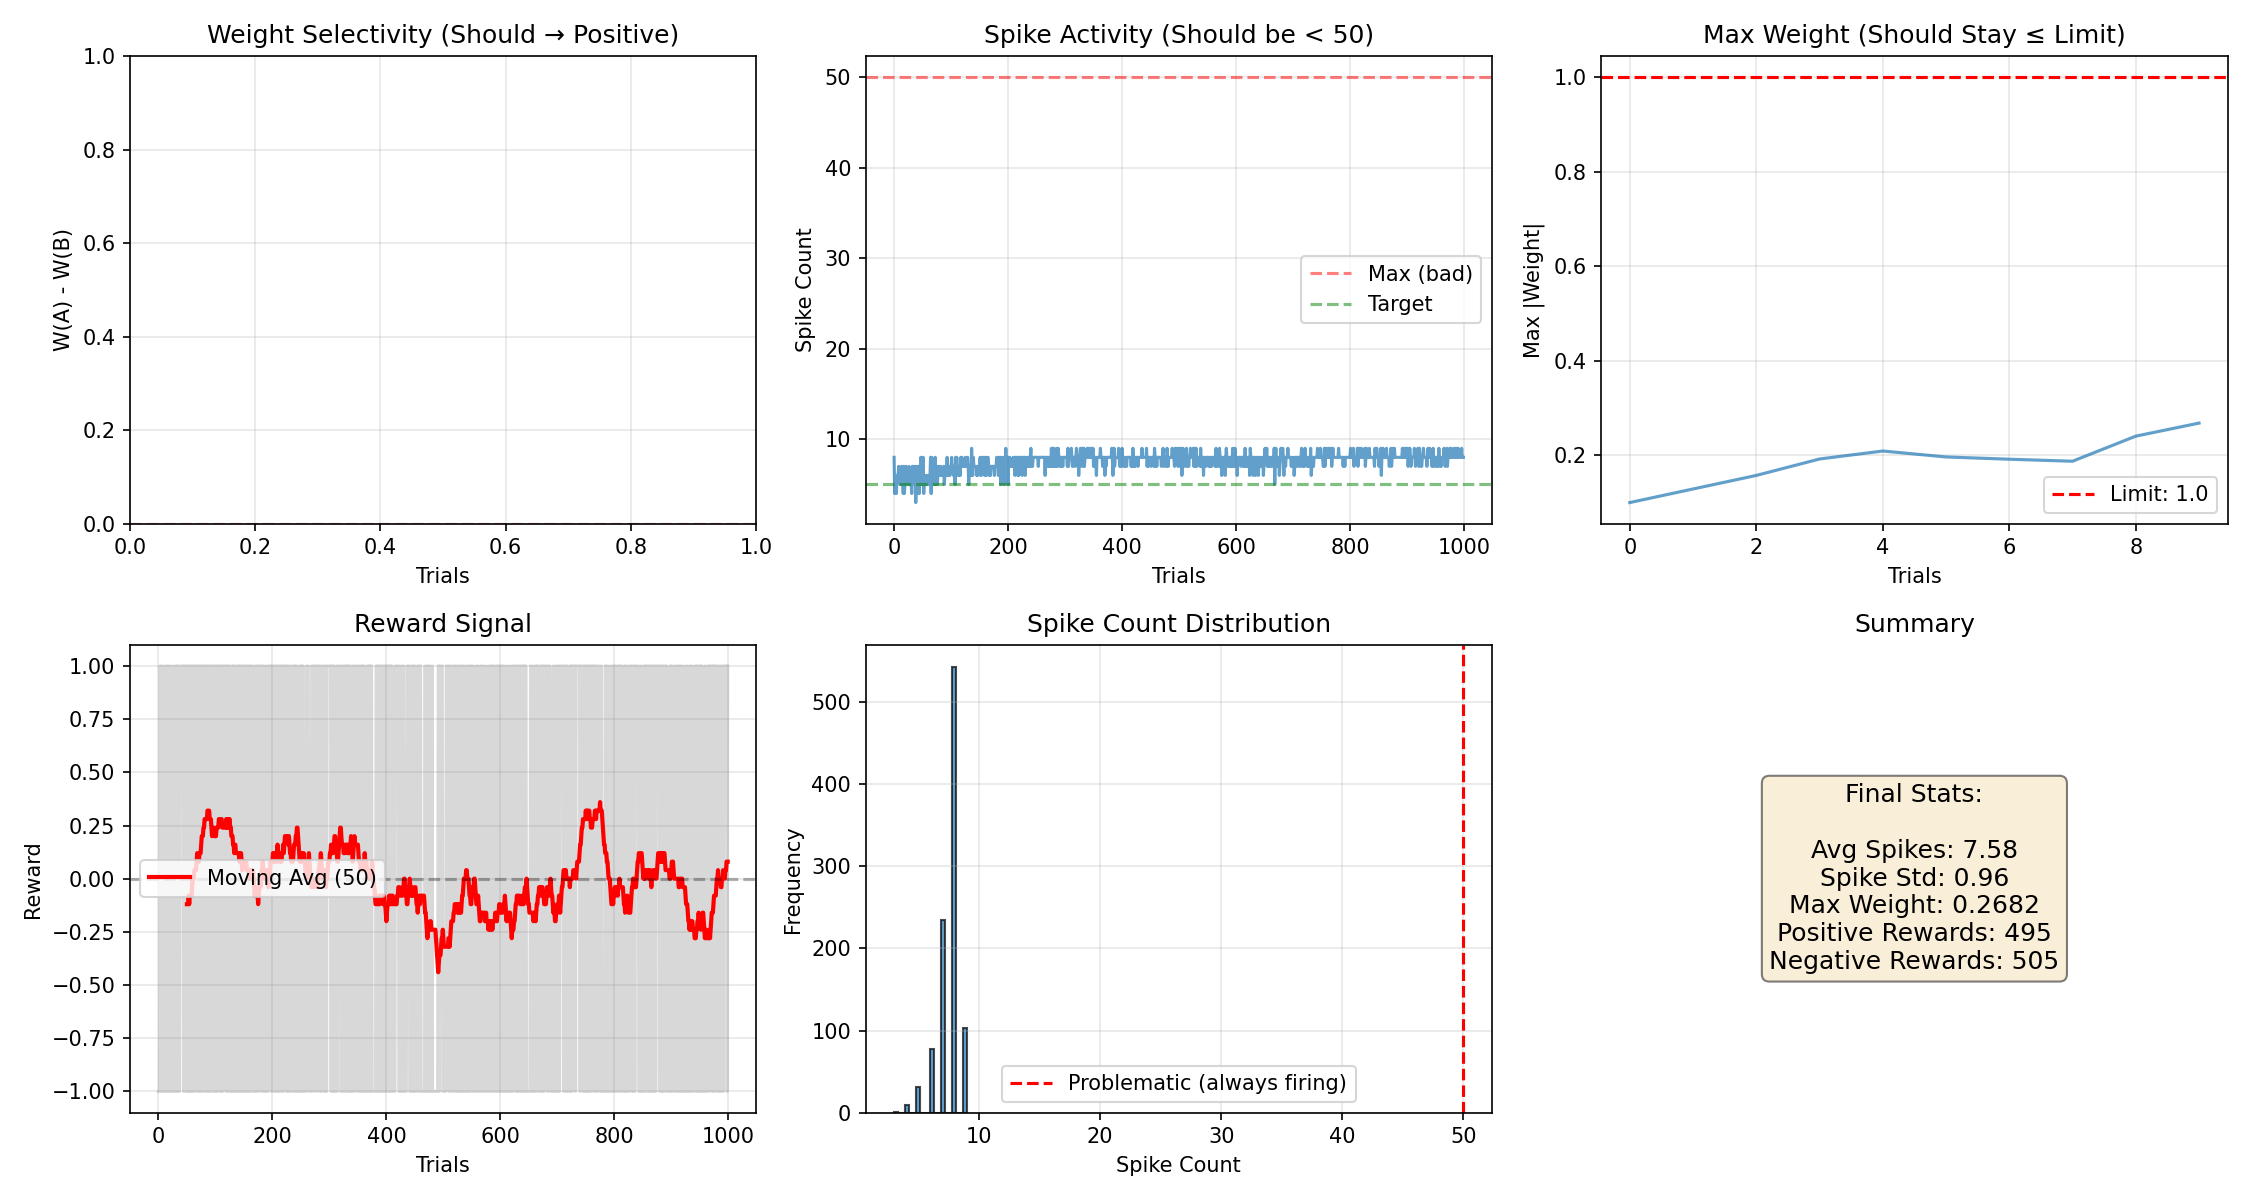
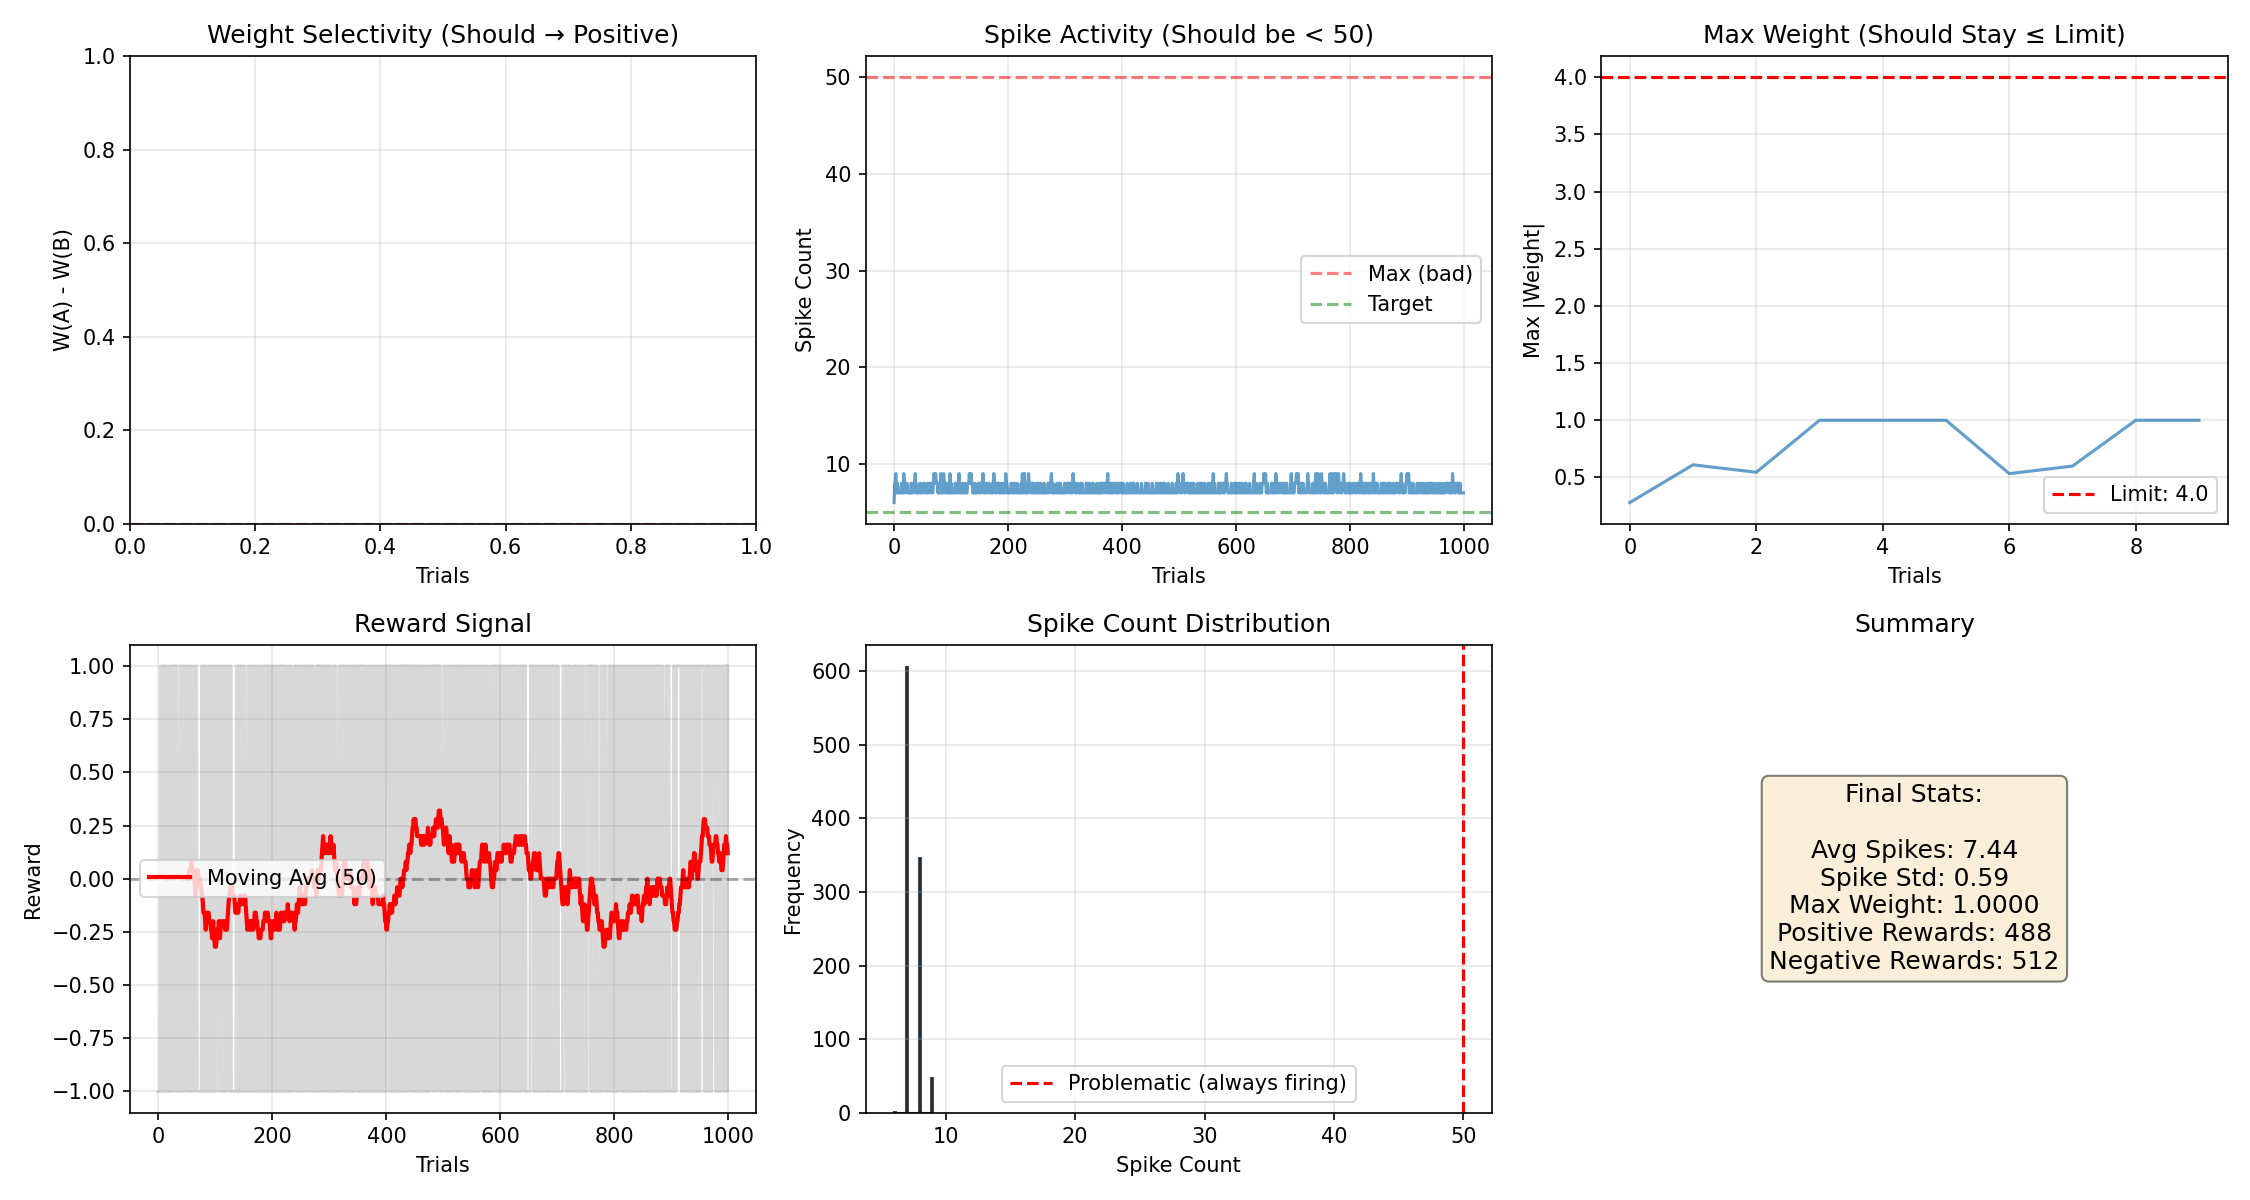
SNN

diff --git a/deep_pavlov.py b/deep_pavlov.py
@@ -10,20 +10,18 @@ from CNS.mechanisms.snn_synapse import Synapse
 def test_pavlov_unified():
     print("開始巴甫洛夫測試(Deep)...")
 
-    n_neurons1 = 512
-    n_neurons2 = 256
-    n_neurons3 = 128
+    n_neurons1 = 2048
+    n_neurons2 = 1024
+    n_neurons3 = 512
     decision_neuron_idx = 0
     n_steps = 1000
     device = torch.device("cuda" if torch.cuda.is_available() else "cpu")
     save_path = "result_unified.png"
 
     input_gain = 10.0
-    noise_level = 5.0
-    learning_rate = 0.0001
-    max_weight = 1.0
-
-    bridge_gain = 10.0
+    noise_level = 10.0
+    learning_rate = 0.001
+    max_weight = 4.0
 
     dopamine = DopamineSystem(dt=1.0, base_level=0.1)
 
@@ -31,34 +29,42 @@ def test_pavlov_unified():
     layer2 = IzhikevichLayer(n_neurons2)
     layer3 = IzhikevichLayer(n_neurons3)
 
-    layer1.reset_state(batch_size=1, device=device)
-    layer2.reset_state(batch_size=1, device=device)
-    layer3.reset_state(batch_size=1, device=device)
-
-    layer1.to(device)
-    layer2.to(device)
-    layer3.to(device)
-
     layer1_recurrent = Synapse(layer=layer1)
     layer2_recurrent = Synapse(layer=layer2)
     layer3_recurrent = Synapse(layer=layer3)
     bridge1_2 = Synapse(pre_layer=layer1, post_layer=layer2)
     bridge2_3 = Synapse(pre_layer=layer2, post_layer=layer3)
+
+    layer1.to(device)
+    layer2.to(device)
+    layer3.to(device)
     layer1_recurrent.to(device)
     layer2_recurrent.to(device)
     layer3_recurrent.to(device)
     bridge1_2.to(device)
     bridge2_3.to(device)
 
+    layer1.synapse = layer1_recurrent
+    layer2.synapse = layer2_recurrent
+    layer3.synapse = layer3_recurrent
+
+    layer1.reset_state(batch_size=1, device=device)
+    layer2.reset_state(batch_size=1, device=device)
+    layer3.reset_state(batch_size=1, device=device)
+    layer1_recurrent.reset_state(batch_size=1, device=device)
+    layer2_recurrent.reset_state(batch_size=1, device=device)
+    layer3_recurrent.reset_state(batch_size=1, device=device)
+    bridge1_2.reset_state(batch_size=1, device=device)
+    bridge2_3.reset_state(batch_size=1, device=device)
+
     opt_l1_recurrent = ThreeFactorOptimizer(
         layer=layer1,
-        n_neurons=n_neurons1,
+        synapse=layer1_recurrent,
         dopamine=dopamine,
         lr=learning_rate,
         max_weight=max_weight,
     )
 
-    # --- B. 訓練 Layer 1 -> Layer 2 的連接 (Feedforward) ---
     opt_bridge1_2 = ThreeFactorOptimizer(
         dopamine=dopamine,
         pre_layer=layer1,
@@ -68,15 +74,14 @@ def test_pavlov_unified():
         max_weight=max_weight,
     )
 
-    # --- C. 訓練 Layer 2 的內部循環 (Recurrent) ---
     opt_l2_recurrent = ThreeFactorOptimizer(
         layer=layer2,
+        synapse=layer2_recurrent,
         dopamine=dopamine,
         lr=learning_rate,
         max_weight=max_weight,
     )
 
-    # --- D. 訓練 Layer 2 -> Layer 3 的連接 (Feedforward) ---
     opt_bridge2_3 = ThreeFactorOptimizer(
         dopamine=dopamine,
         pre_layer=layer2,
@@ -86,21 +91,13 @@ def test_pavlov_unified():
         max_weight=max_weight,
     )
 
-    # --- E. 訓練 Layer 3 的內部循環 (Recurrent) ---
     opt_l3_recurrent = ThreeFactorOptimizer(
         layer=layer3,
+        synapse=layer3_recurrent,
         dopamine=dopamine,
         lr=learning_rate,
         max_weight=max_weight,
     )
-
-    try:
-        layer1 = torch.compile(layer1)
-        layer2 = torch.compile(layer2)
-        layer3 = torch.compile(layer3)
-        print("✅ 已啟用 torch.compile 加速")
-    except Exception as e:
-        print("⚠ 無法啟用 torch.compile，將使用一般模式:", e)
 
     pattern_A_mask = torch.zeros(n_neurons1)
     pattern_A_mask[:25] = 1.0
@@ -138,20 +135,17 @@ def test_pavlov_unified():
             spikes3, calcium3 = layer3(
                 input_current_3, neuromodulation_deltas=neuron_deltas
             )
-
+            opt_l1_recurrent.step(modulation_deltas=synapse_deltas)
+            opt_bridge1_2.step(modulation_deltas=synapse_deltas)
+            opt_l2_recurrent.step(modulation_deltas=synapse_deltas)
+            opt_bridge2_3.step(modulation_deltas=synapse_deltas)
+            opt_l3_recurrent.step(modulation_deltas=synapse_deltas)
             total_decision_spikes += spikes3[:, decision_neuron_idx].sum()
-
-        reward = compute_reward(total_decision_spikes, is_pattern_A)
-
-        dopamine.update(influx=reward)
+            reward = compute_reward(total_decision_spikes, is_pattern_A)
+            dopamine.update(influx=reward)
 
         spike_counts.append(total_decision_spikes.item())
         rewards_history.append(reward)
-        opt_l1_recurrent.step(modulation_deltas=synapse_deltas)
-        opt_bridge1_2.step(modulation_deltas=synapse_deltas)
-        opt_l2_recurrent.step(modulation_deltas=synapse_deltas)
-        opt_bridge2_3.step(modulation_deltas=synapse_deltas)
-        opt_l3_recurrent.step(modulation_deltas=synapse_deltas)
 
         if trial % 100 == 0:
             v_mean = layer2.v.mean().item()

diff --git a/CNS/mechanisms/snn_synapse.py b/CNS/mechanisms/snn_synapse.py
@@ -8,9 +8,9 @@ class Synapse(nn.Module):
                  layer=None,
                  pre_layer=None,
                  post_layer=None,
-                 density=0.1,
+                 density=0.3,
                  dt=1.0, 
-                 tau_g=0.5, 
+                 tau_g=5.0, 
                  max_delay_ms=20,
                  max_weight=1.0,
                  enable_plasticity=True,
@@ -18,17 +18,19 @@ class Synapse(nn.Module):
                  sprouting_prob=0.01
                  ):
         super().__init__()
-        self.layer = layer
-        self.n_neurons = layer.n_neurons
-        self.pre_layer =  pre_layer if pre_layer is not None else self.layer
-        self.post_layer = post_layer if post_layer is not None else self.layer
+        _layer = layer
+        _pre = pre_layer if pre_layer is not None else _layer
+        _post = post_layer if post_layer is not None else _layer
 
-        self.n_pre = self.pre_layer.n_neurons
-        self.n_post = self.post_layer.n_neurons
+        if _pre is None or _post is None:
+             raise ValueError("Synapse 初始化失敗：必須提供 layer 或 pre_layer/post_layer")
+
+        self.n_pre = _pre.n_neurons
+        self.n_post = _post.n_neurons
+        
+        self.register_buffer('neuron_type', _pre.neuron_type.clone())
 
         self.max_weight = max_weight
-
-        self.register_buffer('neuron_type', self.pre_layer.neuron_type.clone())
 
         self.weight = nn.Parameter(torch.empty(self.n_post, self.n_pre))
         nn.init.xavier_uniform_(self.weight)
@@ -51,12 +53,14 @@ class Synapse(nn.Module):
         self.eneable_plasticity = enable_plasticity
         self.pruning_prob = sprouting_prob
         self.pruning_threshold = pruning_threshold
+        self.target_density = density
 
         self.I = None
 
         self.enforce_dale_principle()
 
     def reset_state(self, batch_size, device):
+        self.g = torch.zeros(batch_size, self.n_post, device=device)
         self.spike_buffer = torch.zeros(
             batch_size, self.n_pre, self.max_delay_steps, device=device
         )
@@ -83,13 +87,13 @@ class Synapse(nn.Module):
                     empty_indices = torch.nonzero(self.mask == 0, as_tuple=False)
 
                     if empty_indices.size(0) > n_to_sprout:
-                        idx = torch.randperm(empty_indices(0))[:n_to_sprout]
+                        idx = torch.randperm(empty_indices.size(0))[:n_to_sprout]
                         new_conns = empty_indices[idx]
 
                         rows = new_conns[:, 0]
                         cols = new_conns[:, 1]
 
-                        current_types = self.pre_neuron_type[cols]
+                        current_types = self.neuron_type[cols]
 
                         base_val = 0.01 * self.max_weight
                         noise = torch.rand(n_to_sprout, device=self.weight.device) * 0.005
@@ -123,6 +127,7 @@ class Synapse(nn.Module):
         g_influx = torch.matmul(delayed_spikes, effective_weight.T)
 
         self.g = self.g * self.decay + g_influx
+        self.g = self.g.detach()
 
         I_total = torch.zeros_like(v_post)
 
@@ -135,6 +140,8 @@ class Synapse(nn.Module):
             I_total[inh_mask] = (-self.g[inh_mask]) * (-80.0 - v_post[inh_mask])
 
         self.I = I_total
+
+        self.I = self.I.detach()
         return self.I
     
     def enforce_dale_principle(self):

diff --git a/CNS/mechanisms/snn_network.py b/CNS/mechanisms/snn_network.py
@@ -1,12 +1,14 @@
 import torch
 import torch.nn as nn
 import numpy as np
+from CNS.mechanisms.snn_synapse import Synapse 
 
 
 class IzhikevichLayer(nn.Module):
     def __init__(
         self,
         n_neurons,
+        synapse=None,
         exc_ratio=0.8,
         a_exc=0.02,
         b_exc=0.2,
@@ -78,6 +80,8 @@ class IzhikevichLayer(nn.Module):
 
         self.refractory_counter = None
 
+        self.synapse = synapse
+
     def reset_state(self, batch_size, device):
         self.v = torch.ones(batch_size, self.n_neurons).to(device) * -65.0
         self.u = self.v * self.b
@@ -87,12 +91,12 @@ class IzhikevichLayer(nn.Module):
         )
         self.post_spike = torch.zeros(batch_size, self.n_neurons).to(device)
         self.pre_spike = torch.zeros(batch_size, self.n_neurons).to(device)
-
+        
     def forward(self, total_input_current, neuromodulation_deltas=None):
         if self.v is None:
             self.reset_state(total_input_current.shape[0], total_input_current.device)
 
-        current_bias = 0.0
+        current_bias = 10.0
         current_d = self.d
         current_b = self.b
         if neuromodulation_deltas:
@@ -104,6 +108,11 @@ class IzhikevichLayer(nn.Module):
                 current_b = self.b + neuromodulation_deltas["b"]
 
         I = total_input_current + current_bias
+
+        if self.synapse:
+            recurrent_current = self.synapse(self.pre_spike, self.v)
+            I = I + recurrent_current
+        
 
         d_calcium = (-self.calcium / self.tau_ca) * self.dt + self.pre_spike
         self.calcium = self.calcium + d_calcium

diff --git a/CNS/mechanisms/three_factor.py b/CNS/mechanisms/three_factor.py
@@ -5,8 +5,8 @@ import torch.nn as nn
 class ThreeFactorOptimizer:
     def __init__(
         self,
-        layer,
         dopamine,
+        layer=None,
         pre_layer=None,
         post_layer=None,
         synapse=None,
@@ -37,10 +37,10 @@ class ThreeFactorOptimizer:
         self.gamma_d = gamma_d
 
         self.eligibility_trace = torch.zeros(self.n_post, self.n_pre).to(
-            layer.synapse.weight.device
+            synapse.weight.device
         )
 
-        self.pre_trace = torch.zeros(self.n_pre).to(layer.synapse.weight.device)
+        self.pre_trace = torch.zeros(self.n_pre).to(synapse.weight.device)
         self.v_threshold_for_learning = -50.0
 
         # STDP parameters

diff --git a/CNS/mechanisms/neuromodulation/dopamine.py b/CNS/mechanisms/neuromodulation/dopamine.py
@@ -29,7 +29,7 @@ class DopamineSystem:
 
     def update(self, influx):
         self.phasic_da = self.phasic_da * self.phasic_decay + influx
-        self.phasic_da = np.clip(self.phasic_da, -5.0, 5.0)
+        self.phasic_da = np.clip(self.phasic_da, -1.0, 1.0)
 
         self.tonic_da += (self.base_level - self.tonic_da) * (1.0 - self.tonic_decay)
 
